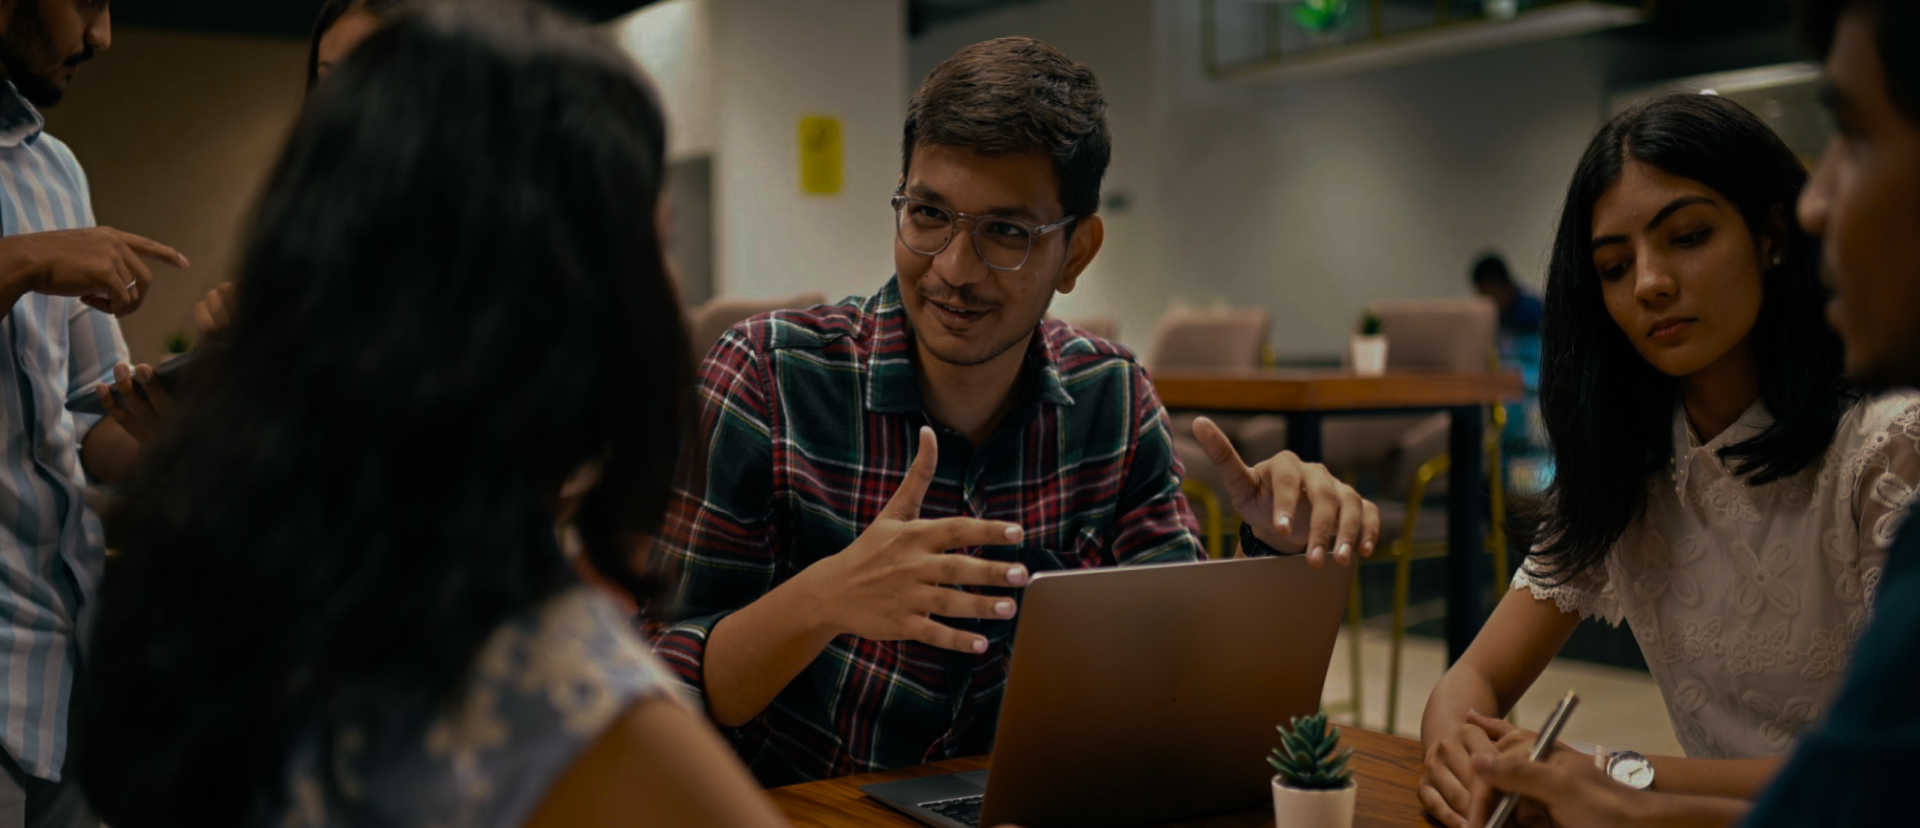
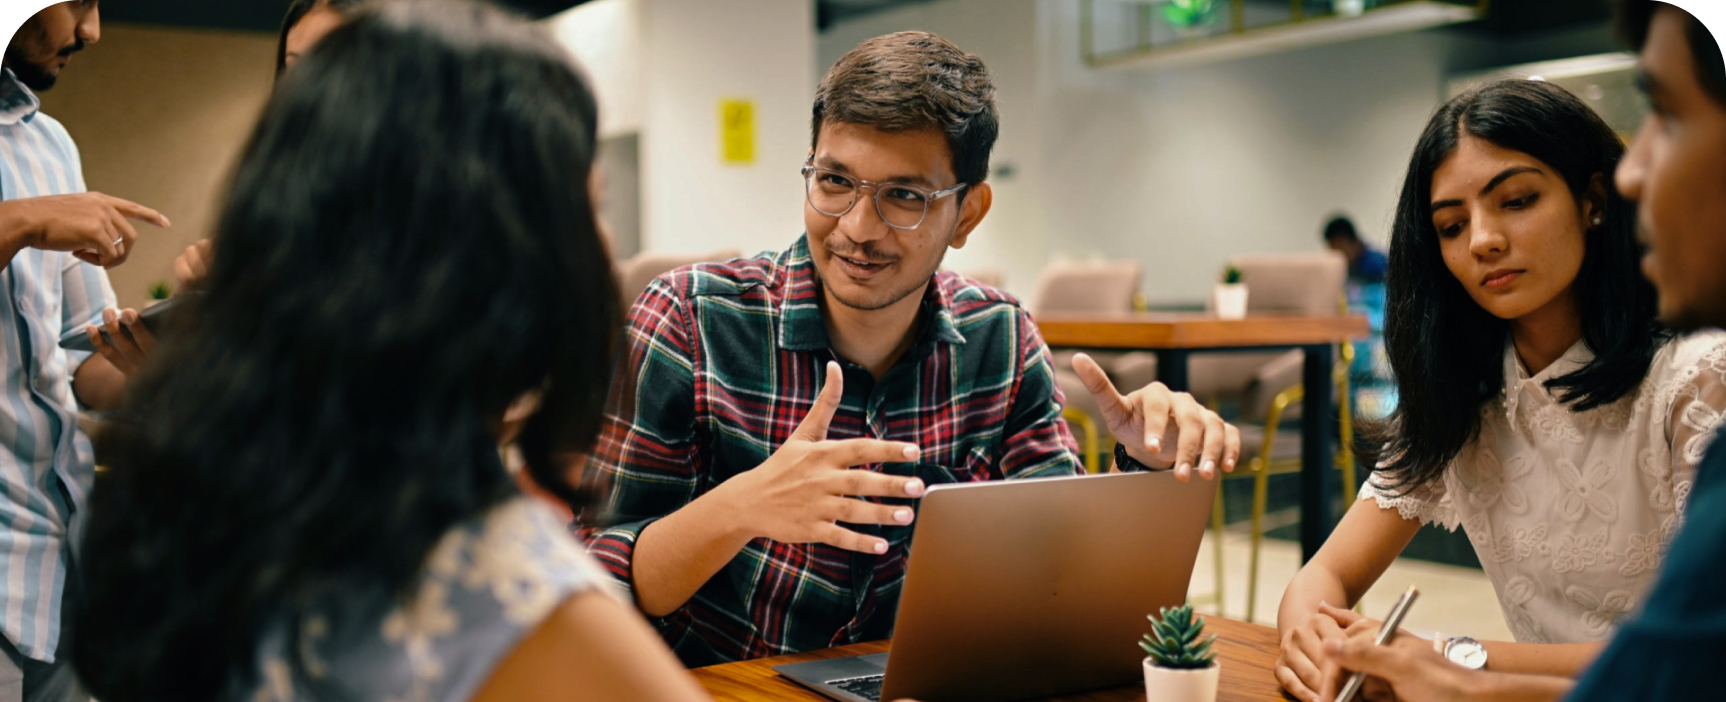
update

diff --git a/src/pages/Contact.js b/src/pages/Contact.js
@@ -13,17 +13,6 @@ const Contact = () => {
     });
   }, []);
 
-  const [formData, setFormData] = useState({
-    name: '',
-    email: '',
-    phoneNumber: '',
-    subject: '',
-    message: '',
-  });
-
-  const handleChange = (e) => {
-    setFormData({ ...formData, [e.target.name]: e.target.value });
-  };
 
   return (
     <div className="contact-container">
@@ -47,30 +36,30 @@ const Contact = () => {
         </div>
         <div className="form-box" data-aos="fade-left">
           <label for="inp" class="inp">
-            <input type="text" id="inp" value={formData.name} onChange={handleChange} placeholder="&nbsp;" />
+            <input type="text" id="inp" placeholder="&nbsp;" />
             <span class="label">Name</span>
             <span class="focus-bg"></span>
           </label>
           <div className="d-flex" style={{ gap: '15px' }}>
             <label for="inp" class="inp">
-              <input type="text" id="inp" value={formData.email} onChange={handleChange} placeholder="&nbsp;" />
+              <input type="text" id="inp"  placeholder="&nbsp;" />
               <span class="label">Email</span>
               <span class="focus-bg"></span>
             </label>
             <label for="inp" class="inp ">
-              <input type="text" id="inp" value={formData.phoneNumber} onChange={handleChange} placeholder="&nbsp;" />
+              <input type="text" id="inp" placeholder="&nbsp;" />
               <span class="label"> Phone Number</span>
               <span class="focus-bg"></span>
             </label>
           </div>
           <label for="inp" class="inp">
-            <input type="text" id="inp" value={formData.subject} onChange={handleChange} placeholder="&nbsp;" />
+            <input type="text" id="inp"  placeholder="&nbsp;" />
             <span class="label">Subject</span>
             <span class="focus-bg"></span>
           </label>
 
           <label for="inp" class="inp">
-            <input type="text" id="inp" value={formData.message} onChange={handleChange} placeholder="&nbsp;" />
+            <input type="text" id="inp"  placeholder="&nbsp;" />
             <span class="label">Message</span>
             <span class="focus-bg"></span>
           </label>

diff --git a/src/pages/Carrer.js b/src/pages/Carrer.js
@@ -5,6 +5,7 @@ import { ToastContainer, toast } from 'react-toastify';
 import 'react-toastify/dist/ReactToastify.css';
 import '../css/carousel.css'
 import '../css/career.css'
+import carrerimage from '../images/Career/careerimage.png'
 export const CareersPage = () => {
   const [name, setName] = useState('');
   const [email, setEmail] = useState('');
@@ -31,13 +32,14 @@ export const CareersPage = () => {
     <div className="careers-page">
       <div className="career-start">
         <div className="career-image">
+          <img style={{width: '100%' ,height: '100%', objectFit: 'none'}} src={carrerimage} alt="" />
           <div className="career-text1">
             Empower your <br />
             aspirations at SVNT Infotech!
           </div>
-          <div className="career-text2">
+          {/* <div className="career-text2">
             We believe in your Ideas, We believe in You
-          </div>
+          </div> */}
         </div>
 
         <div id="recruitment" className="recruitment">

diff --git a/src/css/career.css b/src/css/career.css
@@ -47,14 +47,13 @@ a:hover {
 
 .career-text1 {
   width: 30%;
-  height: 800px;
   text-shadow: 2px 2px 5px black;
   text-align: start;
   position: absolute;
   color: white;
   font-size: 35px;
-  top: 35%;
-  left: 5%;
+  top: 55%;
+  left: 10%;
   font-weight: 600;
 }
 .career-text2 {
@@ -64,7 +63,7 @@ a:hover {
   font-weight: 600;
   color: white;
   top: 48%;
-  left: 5%;
+  left: 15%;
   font-weight: 300;
 }
 .explore {
@@ -108,7 +107,7 @@ a:hover {
   transform: translateX(0); /* Move the arrow back to its original position */
 }
 .career-image {
-  background-image: url('../images/Career/careerimage.png');
+  background-image: url('');
   height: 800px;
   background-repeat: no-repeat;
   background-size: cover;

diff --git a/src/components/LastContent.js b/src/components/LastContent.js
@@ -14,7 +14,7 @@ export default function LastContent() {
             <p className="last-text1 join">Join Us</p>
           </a>
         </div>
-        <div className="last-contact d-flex">
+        {/* <div className="last-contact d-flex">
           <div className="w-75">
             <h1>Not sure where to start ?</h1>
             <p>
@@ -25,7 +25,7 @@ export default function LastContent() {
           <a href="/contact" style={{filter: 'invert()'}} className="ms-auto text-light align-self-end fs-4 readmore">
             Contact Us
           </a>
-        </div>
+        </div> */}
     </>
   )
 }

diff --git a/src/App.css b/src/App.css
@@ -711,9 +711,12 @@ main {
 }
 
 .last {
+  margin-right: 5%;
+  margin-left: 5%;
   position: relative;
   height: 700px;
-  background-size: cover;
+  background-size: contain;
+  background-repeat: no-repeat;
   background-image: url(./images/Home/last-career.png);
 }
 
@@ -844,6 +847,8 @@ main {
 }
 
 .whyus-text p {
+  text-align: center;
+  width: 31%;
   padding-bottom: 10px;
   margin: 0 20px;
   font-size: 38px;

diff --git a/src/components/MainStart.js b/src/components/MainStart.js
@@ -55,6 +55,9 @@ export default function MainStart() {
 
   return (
     <div className="home-start">
+      <video autoplay loop muted playsinline>
+        <source src="your_video.mp4" type="video/mp4"/>
+      </video>
       {/* Main Minute Details of Company*/}
       <div className="row years" ref={yearsRef}>
         <div className="col text-center">
